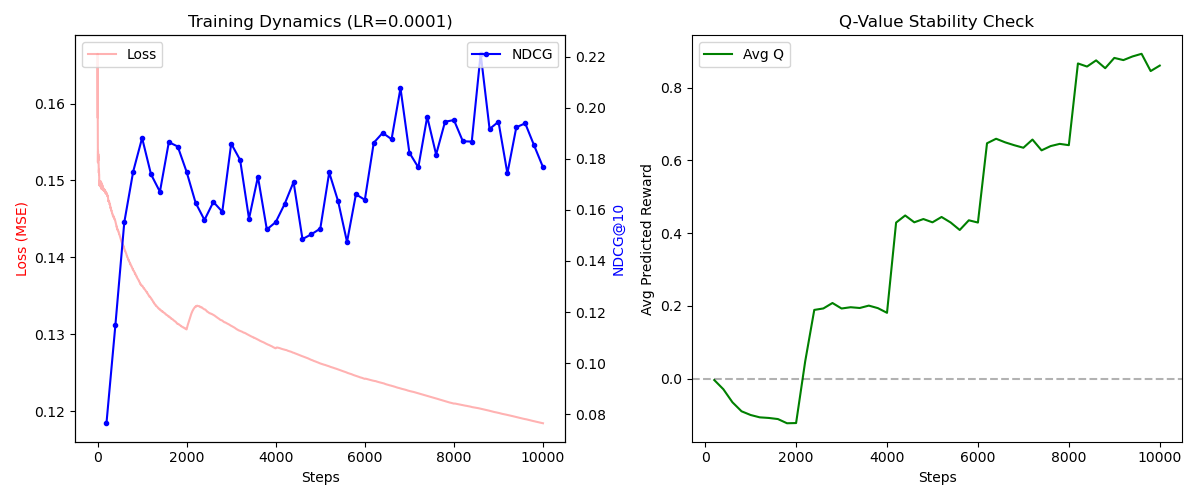
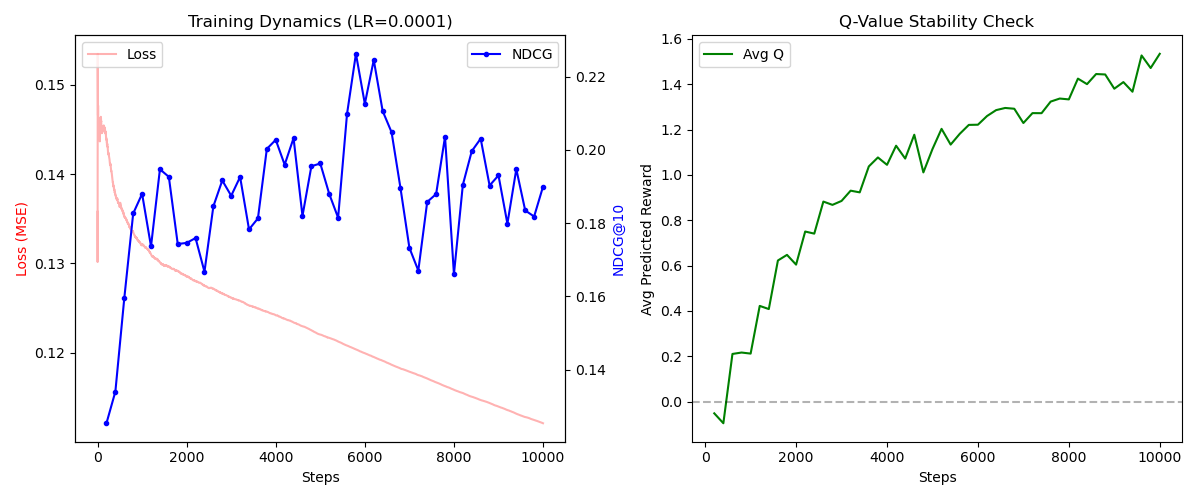
Update Dueling DDQN to use sliding window
Step 5800 | Loss: 0.1204 | NDCG@10: 0.2262 | Avg Q: 1.220

diff --git a/src/agent/ddqn_dueling_model.py b/src/agent/ddqn_dueling_model.py
@@ -1,30 +1,37 @@
 import torch.nn as nn
 
 class DuelingDQN(nn.Module):
-    def __init__(self, num_actions, feature_size, hidden_dim=128, dropout_rate=0.2):
+    def __init__(self, num_actions, feature_size, hidden_dim=256, dropout_rate=0.2):
         super(DuelingDQN, self).__init__()
-        # Feature Extractor
-        self.fc1 = nn.Linear(feature_size, hidden_dim)
-        self.dropout = nn.Dropout(p=dropout_rate)
-        self.act = nn.ReLU()
+        
+        #Feature Extractor
+        self.feature_layer = nn.Sequential(
+            nn.Linear(feature_size, hidden_dim),
+            nn.ReLU(),
+            nn.Dropout(p=dropout_rate),
+            nn.Linear(hidden_dim, hidden_dim)    # Extra layer for non-linearity
+        )
 
-        # Value Stream 
-        self.val_fc = nn.Linear(hidden_dim, hidden_dim // 2)
-        self.val_out = nn.Linear(hidden_dim // 2, 1)
-        # Advantage Stream
-        self.adv_fc = nn.Linear(hidden_dim, hidden_dim // 2)
-        self.adv_out = nn.Linear(hidden_dim // 2, num_actions)
+        #Value Stream
+        self.value_stream = nn.Sequential(
+            nn.Linear(hidden_dim, hidden_dim),
+            nn.ReLU(),
+            nn.Linear(hidden_dim, 1) # Output is scalar
+        )
+
+        #Advantage Stream
+        self.advantage_stream = nn.Sequential(
+            nn.Linear(hidden_dim, hidden_dim),
+            nn.ReLU(),
+            nn.Linear(hidden_dim, num_actions)
+        )
 
     def forward(self, x):
-        x = self.act(self.fc1(x))
-        x = self.dropout(x)
-        # Value
-        v = self.act(self.val_fc(x))
-        v = self.dropout(v)
-        v = self.val_out(v)
-        # Advantage
-        a = self.act(self.adv_fc(x))
-        a = self.dropout(a)
-        a = self.adv_out(a)
-        #Q = V + (A - mean(A))
-        return v + (a - a.mean(dim=1, keepdim=True))
+        features = self.feature_layer(x)
+        
+        values = self.value_stream(features)
+        advantages = self.advantage_stream(features)
+        
+        # Q = V + (A - mean(A))
+        q_vals = values + (advantages - advantages.mean(dim=1, keepdim=True))
+        return q_vals

diff --git a/src/utils/hyperparameters.py b/src/utils/hyperparameters.py
@@ -15,21 +15,21 @@ class Hyperparameters:
         
         # --- ALGORITHM FLAGS ---
         self.use_ddqn = True  # Set False: standard DQN, True: Double DQN
-        self.use_dueling = False  #  Set False: standard DQN OR  Double DQN depend on self.use_ddqn
+        self.use_dueling = True  #  Set False: standard DQN OR  Double DQN depend on self.use_ddqn
         
         # --- SEQUENTIAL SETTINGS---
         self.history_window = 10  # In state, use last N movies
 
         # --- NN ARCHITECTURE ---
         self.hidden_dim = 256     # width first layer 
-        self.dropout_rate = 0.1 
+        self.dropout_rate = 0.2 
         
         # --- PHASE 1: BASE TRAINING ---
         self.buffer_size = 100_000
-        self.batch_size = 256
+        self.batch_size = 128
         self.learning_rate = 1e-4      
         self.gamma = 0.7 
-        self.target_update = 2000
+        self.target_update = 500
         self.base_n_updates = 10000
         self.log_interval = 500
         self.weight_decay = 1e-5

diff --git a/src/main.py b/src/main.py
@@ -19,7 +19,7 @@ def main():
     plot_save_path = PROJECT_ROOT / hp.plot_summary
     
     if hp.use_ddqn:
-        print("---- Using DDQN------")
+        print(f"---- Using {'Dueling' if hp.use_dueling else ''} DDQN------")
     else:
         print("---- Using Standard DQN")
         
